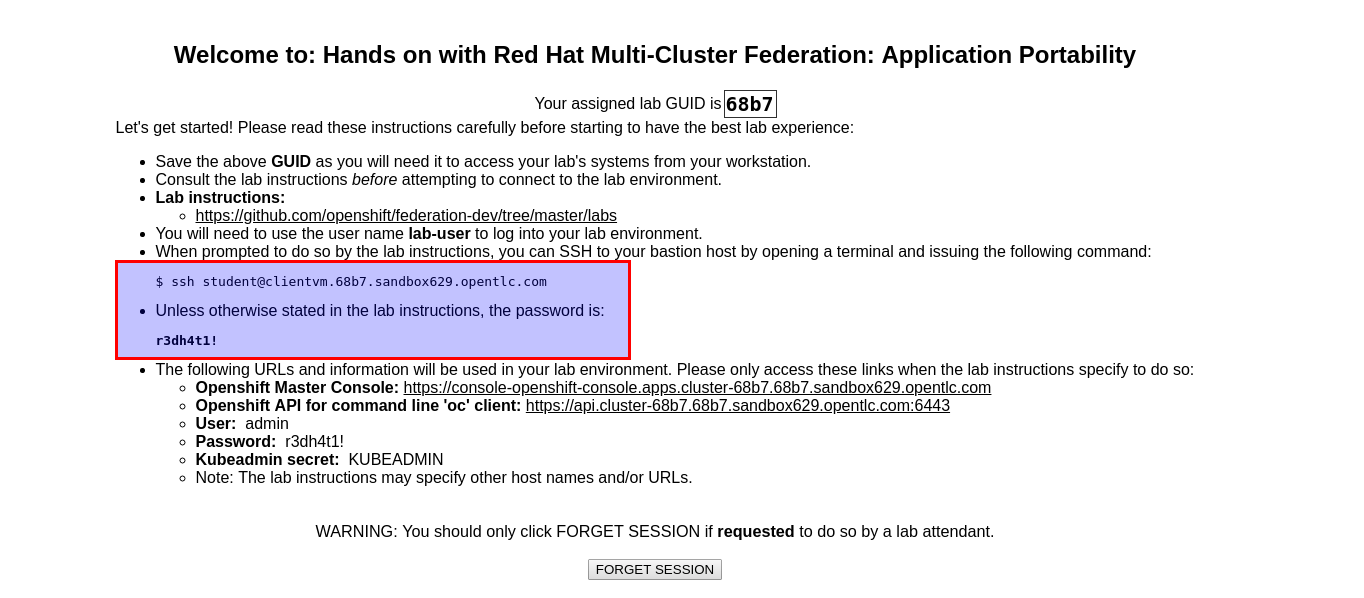
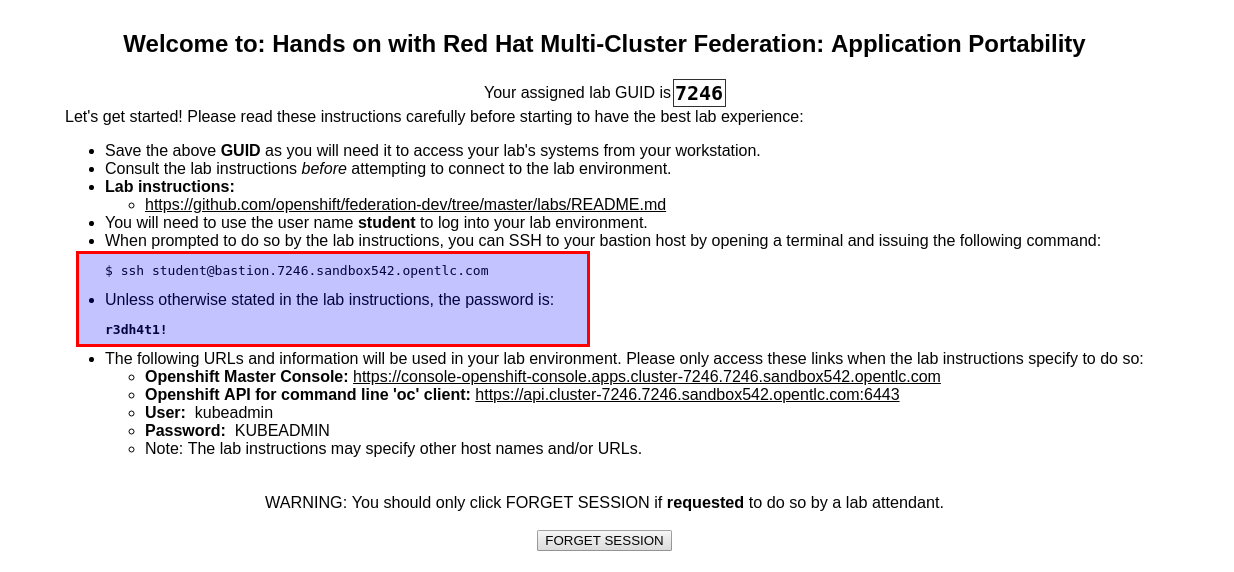
s/clientvm/bastionvm/ (#107)
* s/clientvm/bastionvm/

* new image

Changed region(s): [[0.0616, 0.1486, 0.9238, 0.8322], [0.0924, 0.0594, 0.893, 0.1189], [0.2156, 0.8619, 0.7699, 0.9808]]

diff --git a/labs/1.md b/labs/1.md
@@ -4,23 +4,23 @@
 This hands on lab is a deployment of [Argo CD](https://github.com/argoproj/argo-cd) which will be used to manage multiple OpenShift
 clusters. This lab will use the Argo CD application as well as the binary `argocd`.
 
-<a id="markdown-accessing-the-clientvm" name="accessing-the-clientvm"></a>
-# Accessing the ClientVM
-All of the work will be completed using the ClientVM that you get from GuidGrabber for Cluster1 Environment. Let's go ahead an login into the ClientVM. Remember that login details are presented by GuidGrabber.
+<a id="markdown-accessing-the-bastionvm" name="accessing-the-bastionvm"></a>
+# Accessing the BastionVM
+All of the work will be completed using the BastionVM that you get from GuidGrabber for Cluster1 Environment. Let's go ahead an login into the BastionVM. Remember that login details are presented by GuidGrabber.
 
 e.g:
 
 ![SSH Details GuidGrabber](assets/ssh-details-gg.png)
 
-For *sshing* in the ClientVM you can use your favorite ssh-client.
+For *sshing* in the BastionVM you can use your favorite ssh-client.
 
 ~~~sh
-ssh student@clientvm.GUID.DOMAIN
+ssh student@bastion.GUID.DOMAIN
 
-e.g: ssh student@clientvm.d5fe.sandbox253.opentlc.com
+e.g: ssh student@bastion.d5fe.sandbox253.opentlc.com
 ~~~
 
-At this point you should be logged in to the ClientVM and you should have the information for all three environment defined by the GuidGrabber.
+At this point you should be logged in to the BastionVM and you should have the information for all three environment defined by the GuidGrabber.
 
 During this lab we will utilize the `argocd` binary to define the clusters and repositories in which the Argo CD deployment will manage. 
 
@@ -29,7 +29,7 @@ We will use [cfssl tooling](https://cfssl.org/) when dealing with TLS certificat
 <a id="markdown-verifications" name="verifications"></a>
 ## Verifications
 
-**All verifications have to be run in ClientVM.**
+**All verifications have to be run in BastionVM.**
 
 Verify that [argocd](https://github.com/argoproj/argo-cd/releases/download/v1.1.2/argocd-linux-amd64) is working:
 
@@ -72,7 +72,7 @@ Usage of cfssljson:
 <OUTPUT OMITTED>
 ~~~
 
-Verify that the lab content is available on the `ClientVM`:
+Verify that the lab content is available on the `BastionVM`:
 
 ~~~sh
 ls -ld ~/federation-dev/labs
